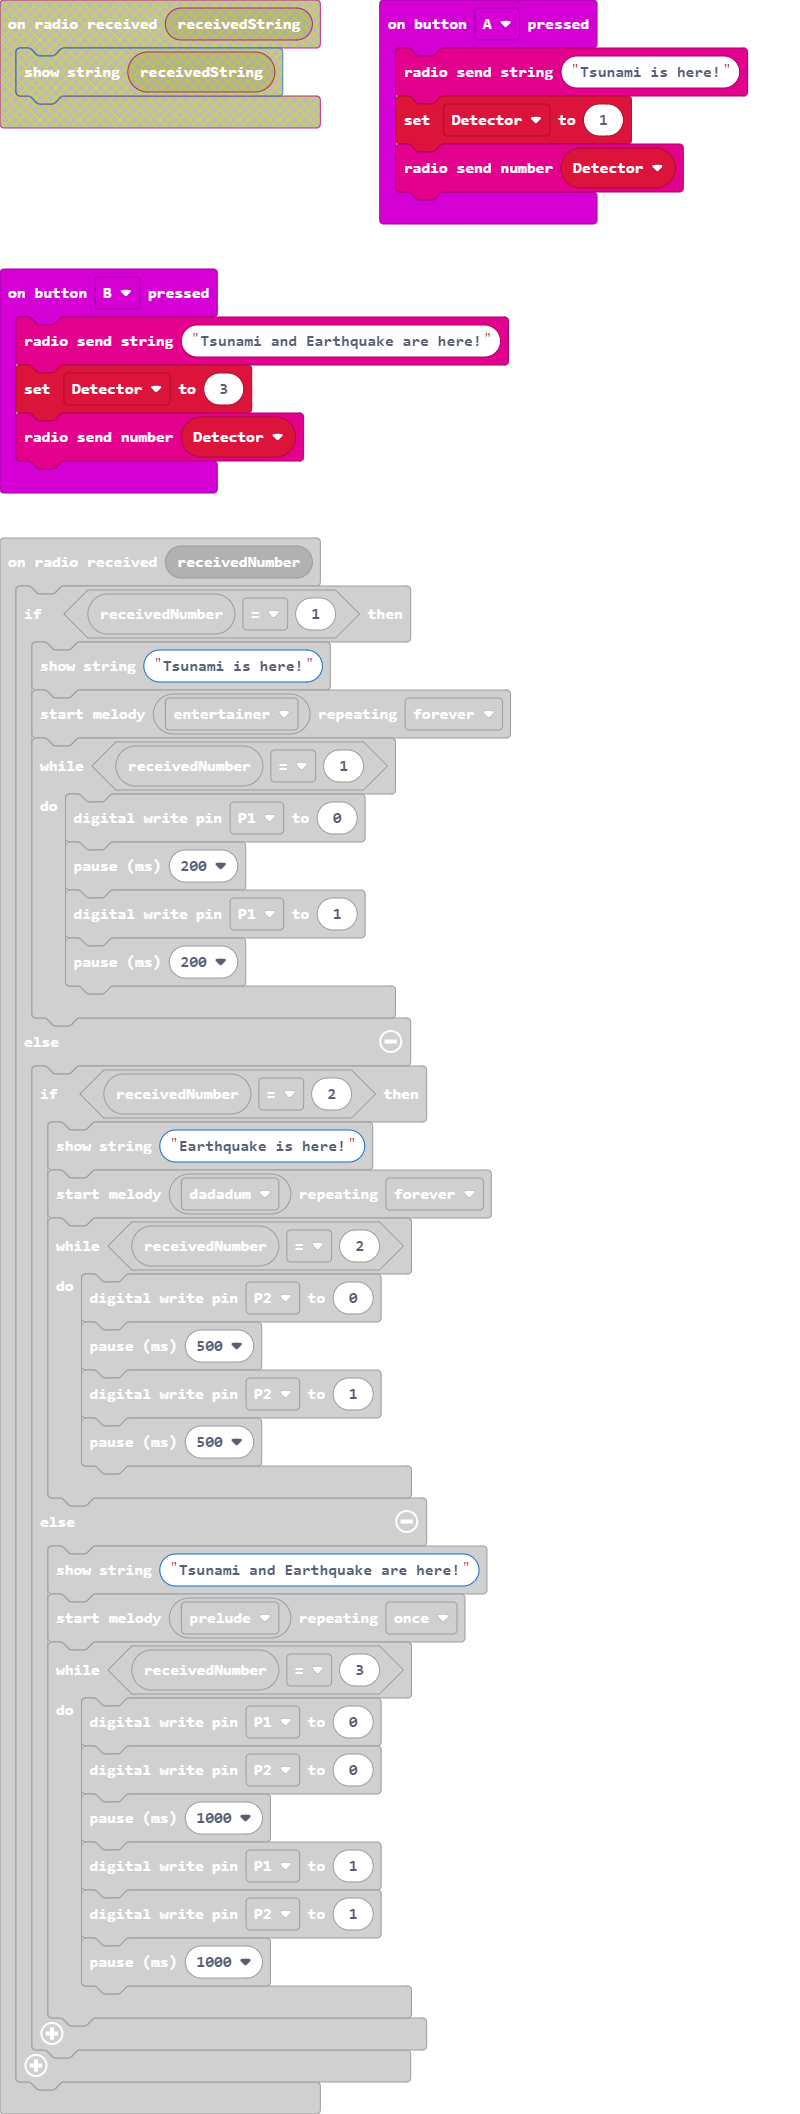
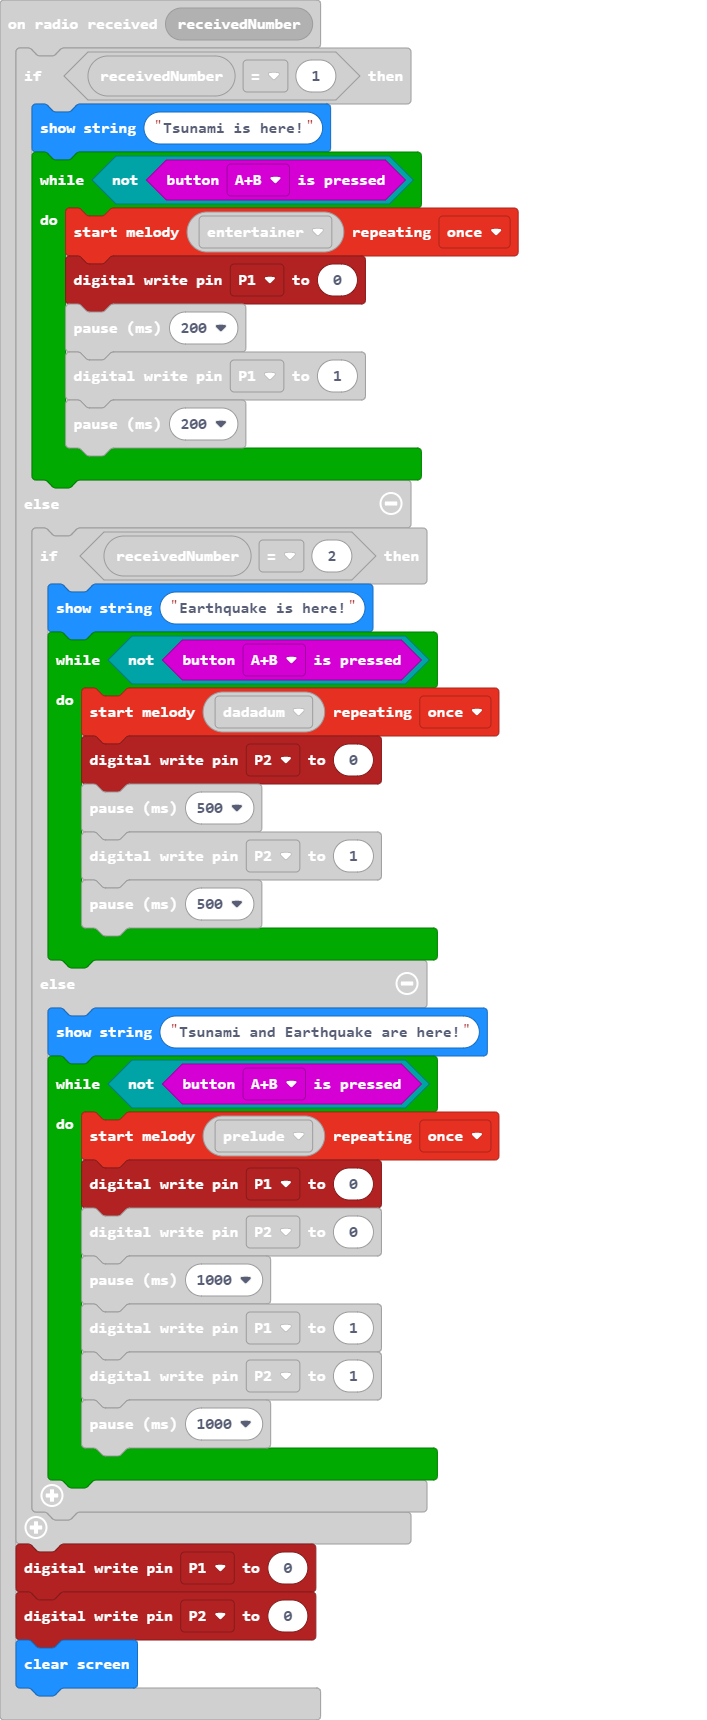
Update main.blocks, main.ts

diff --git a/main.ts b/main.ts
@@ -1,8 +1,8 @@
 radio.onReceivedNumber(function (receivedNumber) {
     if (receivedNumber == 1) {
         basic.showString("Tsunami is here!")
-        music.startMelody(music.builtInMelody(Melodies.Entertainer), MelodyOptions.Forever)
-        while (receivedNumber == 1) {
+        while (!(input.buttonIsPressed(Button.AB))) {
+            music.startMelody(music.builtInMelody(Melodies.Entertainer), MelodyOptions.Once)
             pins.digitalWritePin(DigitalPin.P1, 0)
             basic.pause(200)
             pins.digitalWritePin(DigitalPin.P1, 1)
@@ -11,8 +11,8 @@ radio.onReceivedNumber(function (receivedNumber) {
     } else {
         if (receivedNumber == 2) {
             basic.showString("Earthquake is here!")
-            music.startMelody(music.builtInMelody(Melodies.Dadadadum), MelodyOptions.Forever)
-            while (receivedNumber == 2) {
+            while (!(input.buttonIsPressed(Button.AB))) {
+                music.startMelody(music.builtInMelody(Melodies.Dadadadum), MelodyOptions.Once)
                 pins.digitalWritePin(DigitalPin.P2, 0)
                 basic.pause(500)
                 pins.digitalWritePin(DigitalPin.P2, 1)
@@ -20,8 +20,8 @@ radio.onReceivedNumber(function (receivedNumber) {
             }
         } else {
             basic.showString("Tsunami and Earthquake are here!")
-            music.startMelody(music.builtInMelody(Melodies.Prelude), MelodyOptions.Once)
-            while (receivedNumber == 3) {
+            while (!(input.buttonIsPressed(Button.AB))) {
+                music.startMelody(music.builtInMelody(Melodies.Prelude), MelodyOptions.Once)
                 pins.digitalWritePin(DigitalPin.P1, 0)
                 pins.digitalWritePin(DigitalPin.P2, 0)
                 basic.pause(1000)
@@ -31,6 +31,9 @@ radio.onReceivedNumber(function (receivedNumber) {
             }
         }
     }
+    pins.digitalWritePin(DigitalPin.P1, 0)
+    pins.digitalWritePin(DigitalPin.P2, 0)
+    basic.clearScreen()
 })
 input.onGesture(Gesture.EightG, function () {
 	
